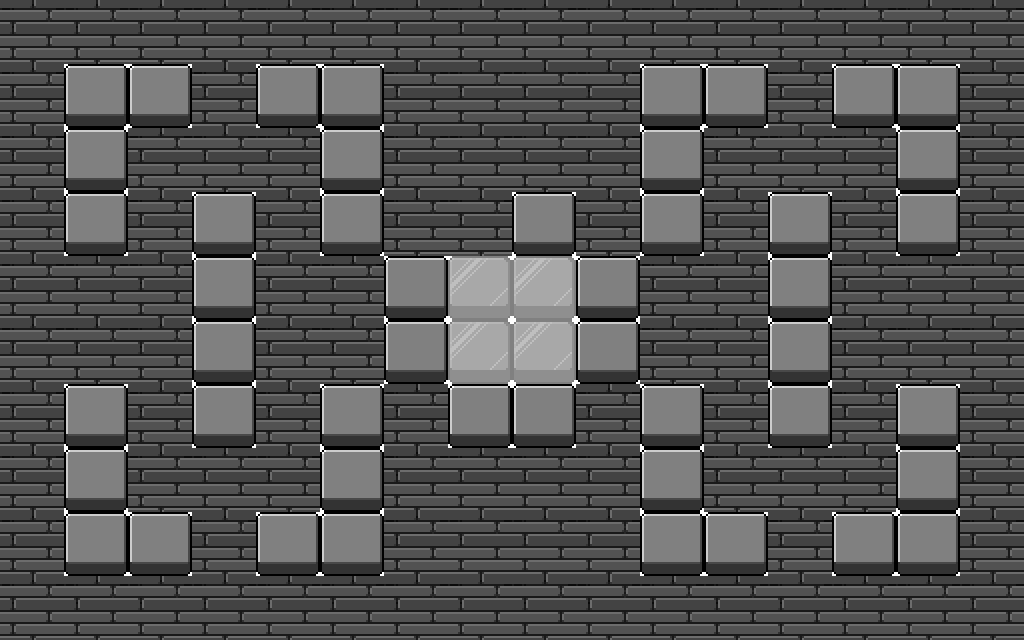
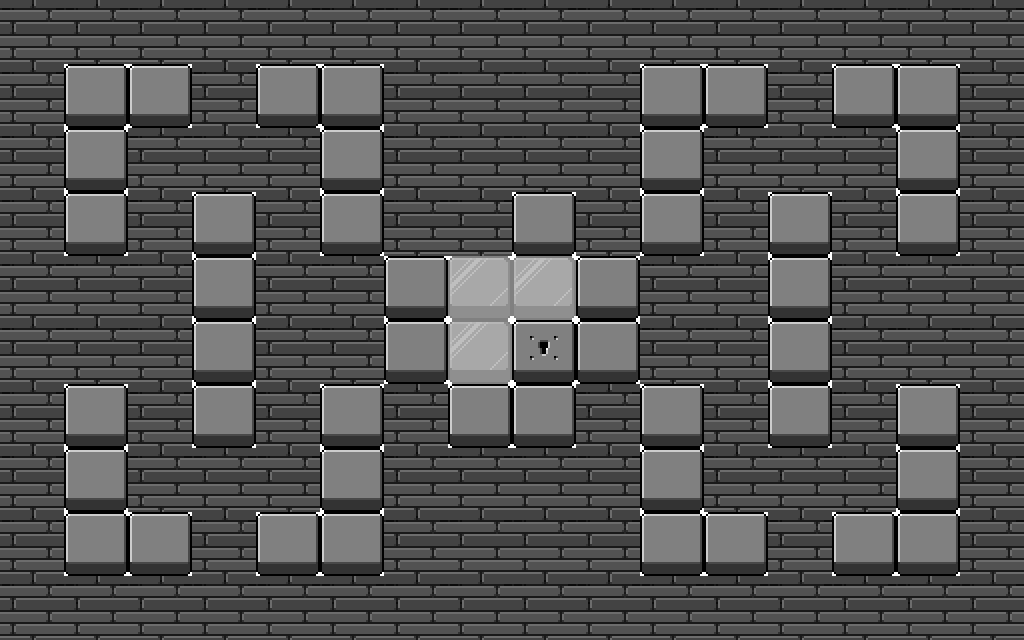
Add files via upload

Changed region(s): [[0.5, 0.5, 0.5625, 0.625]]

diff --git a/mikeman/mikeman.py b/mikeman/mikeman.py
@@ -1,9 +1,12 @@
 from pycat.core import Window, Sprite, Color, KeyCode, Point, RotationMode
 from pycat.extensions.ldtk import LdtkLayeredLevel
 from random import choice
+from mikeman_bfs import BFS
 import string
 
 window = Window()
+
+bfs=BFS()
 
 grid_x = 16
 grid_y = 10
@@ -36,6 +39,7 @@ class Mikeman(Sprite):
         self.goto(window.get_sprite_with_tag("ldtk_start"))
         self.queued_rotation = None
         self.rotation = 0
+        self.current_cell=find_cell(self.position)
         self.not_moving = False
         self.rotation_to_offset = {
             0: Point(64, 0),
@@ -56,6 +60,7 @@ class Mikeman(Sprite):
             else:
                 self.goto(self.target_cell)
                 self.target_cell = None
+                self.current_cell=find_cell(self.position)
 
         if not self.target_cell:
             old_rotation = self.rotation
@@ -83,6 +88,29 @@ class Mikeman(Sprite):
         elif window.is_key_down(KeyCode.D):
             self.queued_rotation = 0
 
+            
+class Ghost(Sprite):
+    def on_create(self):
+        self.scale=60
+        self.color=Color.RED
+        self.goto(window.get_sprite_with_tag("ldtk_enemyspawn"))
+        self.target_cell=None
+        self.current_cell=find_cell(self.position)
+        
+
+    def on_update(self, dt):
+        bfs.solve(self.current_cell,mikeman.current_cell)
+        if not len(bfs.get_path())<1:
+            self.target_cell=bfs.get_path()[1]
+        if self.target_cell != None:
+            if self.distance_to(self.target_cell) > 3:
+                self.move_forward(2)
+
+            else:
+                self.goto(self.target_cell)
+                self.target_cell = None
+                self.current_cell=find_cell(self.position)
+
 
 class Cell(Sprite):
     def on_create(self):
@@ -98,21 +126,21 @@ class Cell(Sprite):
     def get_neighbors(self):
         neighbors = []
         right = find_cell(self.position+Point(64, 0))
-        if right and not right.is_barrier:
+        if right:
             neighbors.append(right)
 
         left = find_cell(self.position+Point(-64, 0))
-        if left and not left.is_barrier:
+        if left:
             neighbors.append(left)
 
         up = find_cell(self.position+Point(0, 64))
 
-        if up and not up.is_barrier:
+        if up:
             neighbors.append(up)
 
         down = find_cell(self.position+Point(0, -64))
 
-        if down and not down.is_barrier:
+        if down:
             neighbors.append(down)
 
         return neighbors
@@ -126,5 +154,6 @@ for x in range(0, grid_x*64, 64):
         if cell.is_touching_any_sprite_with_tag("ldtk_wall"):
             cell.delete()
 
-window.create_sprite(Mikeman)
+mikeman=window.create_sprite(Mikeman)
+ghost=window.create_sprite(Ghost)
 window.run()
